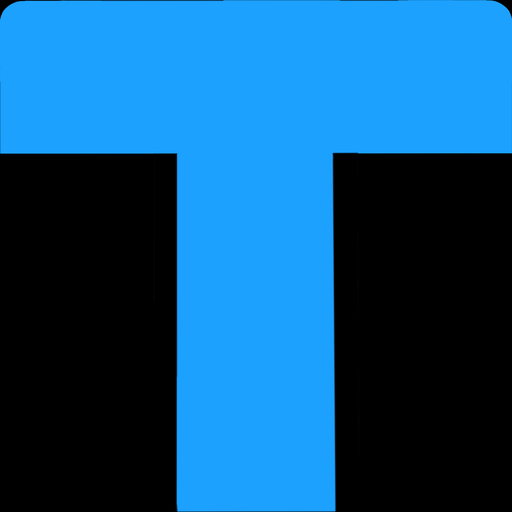
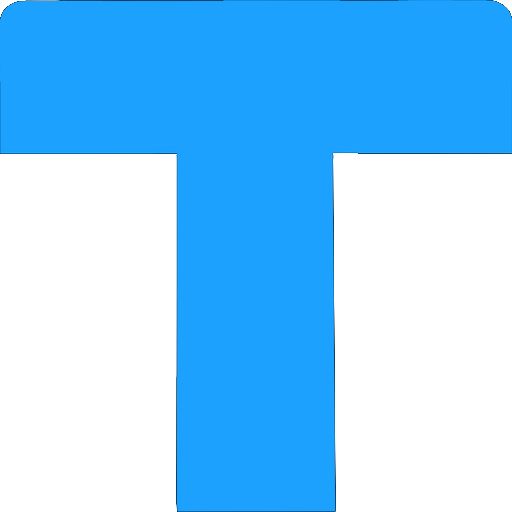
Key letter-tile black to transparent so the die body shows through
The tiles' black was pure #000, deader than the die body ink (#141417). Drop
the black to transparent (alpha keyed by max channel) and alphaTest the letter
faces, so the letters read as punched into the body and the rounded corners melt
into the bevel instead of showing a flat black sliver.

diff --git a/src/components/dice3d/Die.tsx b/src/components/dice3d/Die.tsx
@@ -234,6 +234,9 @@ export default function Die({
               // specular highlights and read brighter; letter faces stay a touch matte
               roughness={i >= 4 ? 0.35 : 0.7}
               metalness={0}
+              // letter tiles carry a keyed alpha: the black regions drop out so the
+              // die body shows through instead of a flatter, deader pure black
+              alphaTest={i < 4 ? 0.5 : 0}
               polygonOffset
               polygonOffsetFactor={-4}
             />
